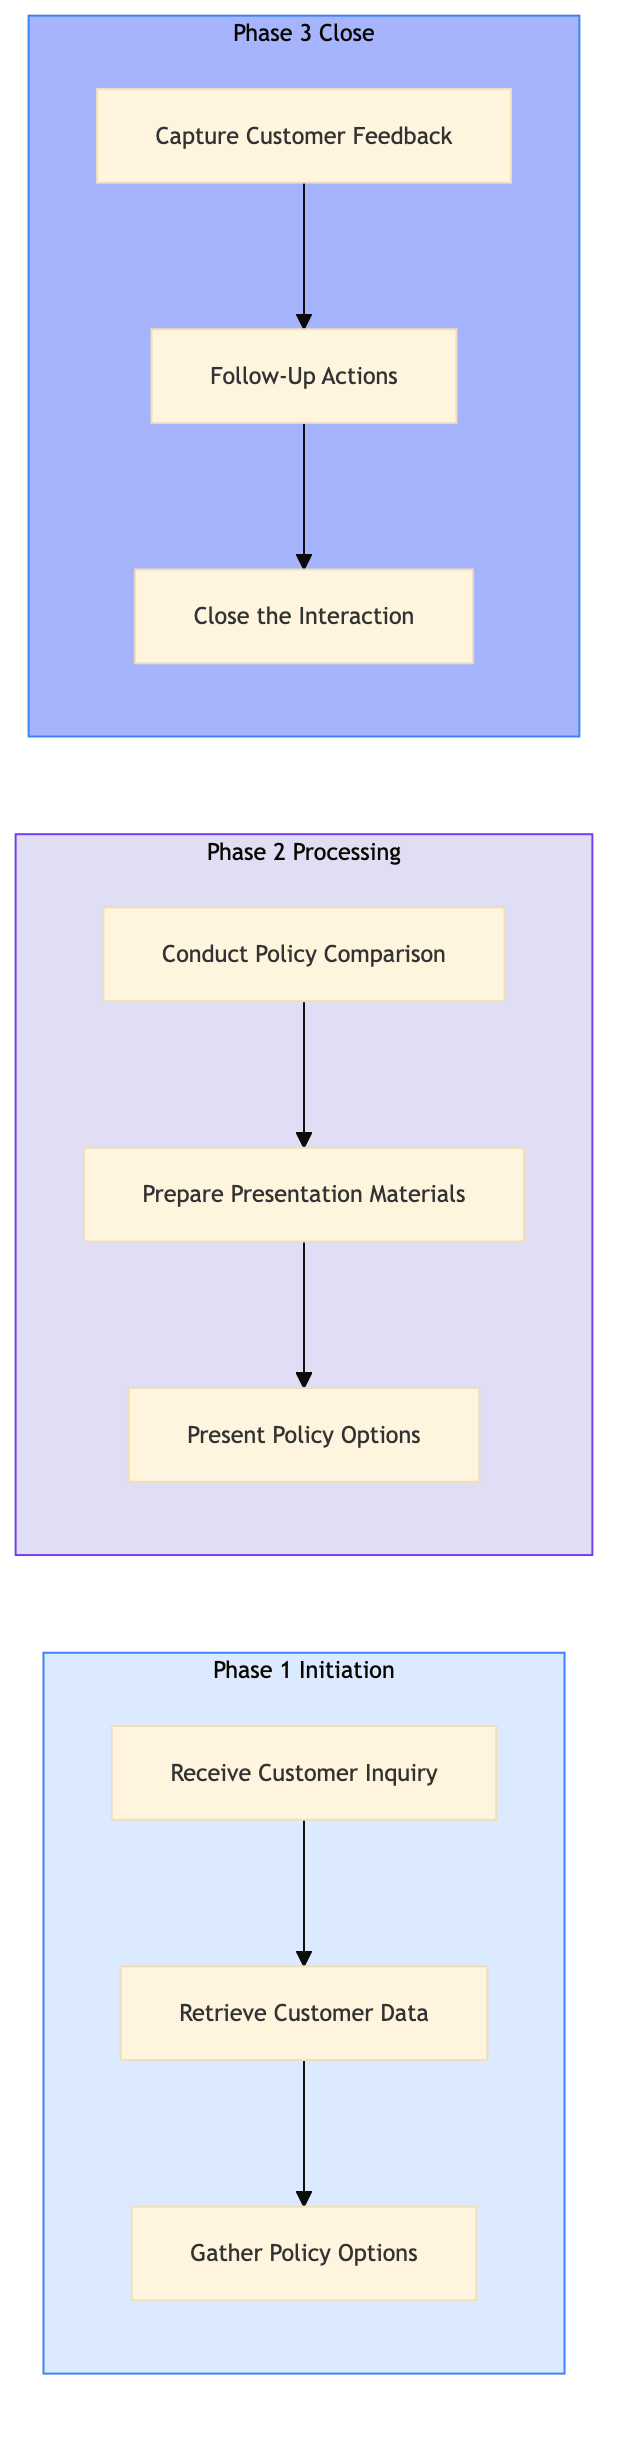
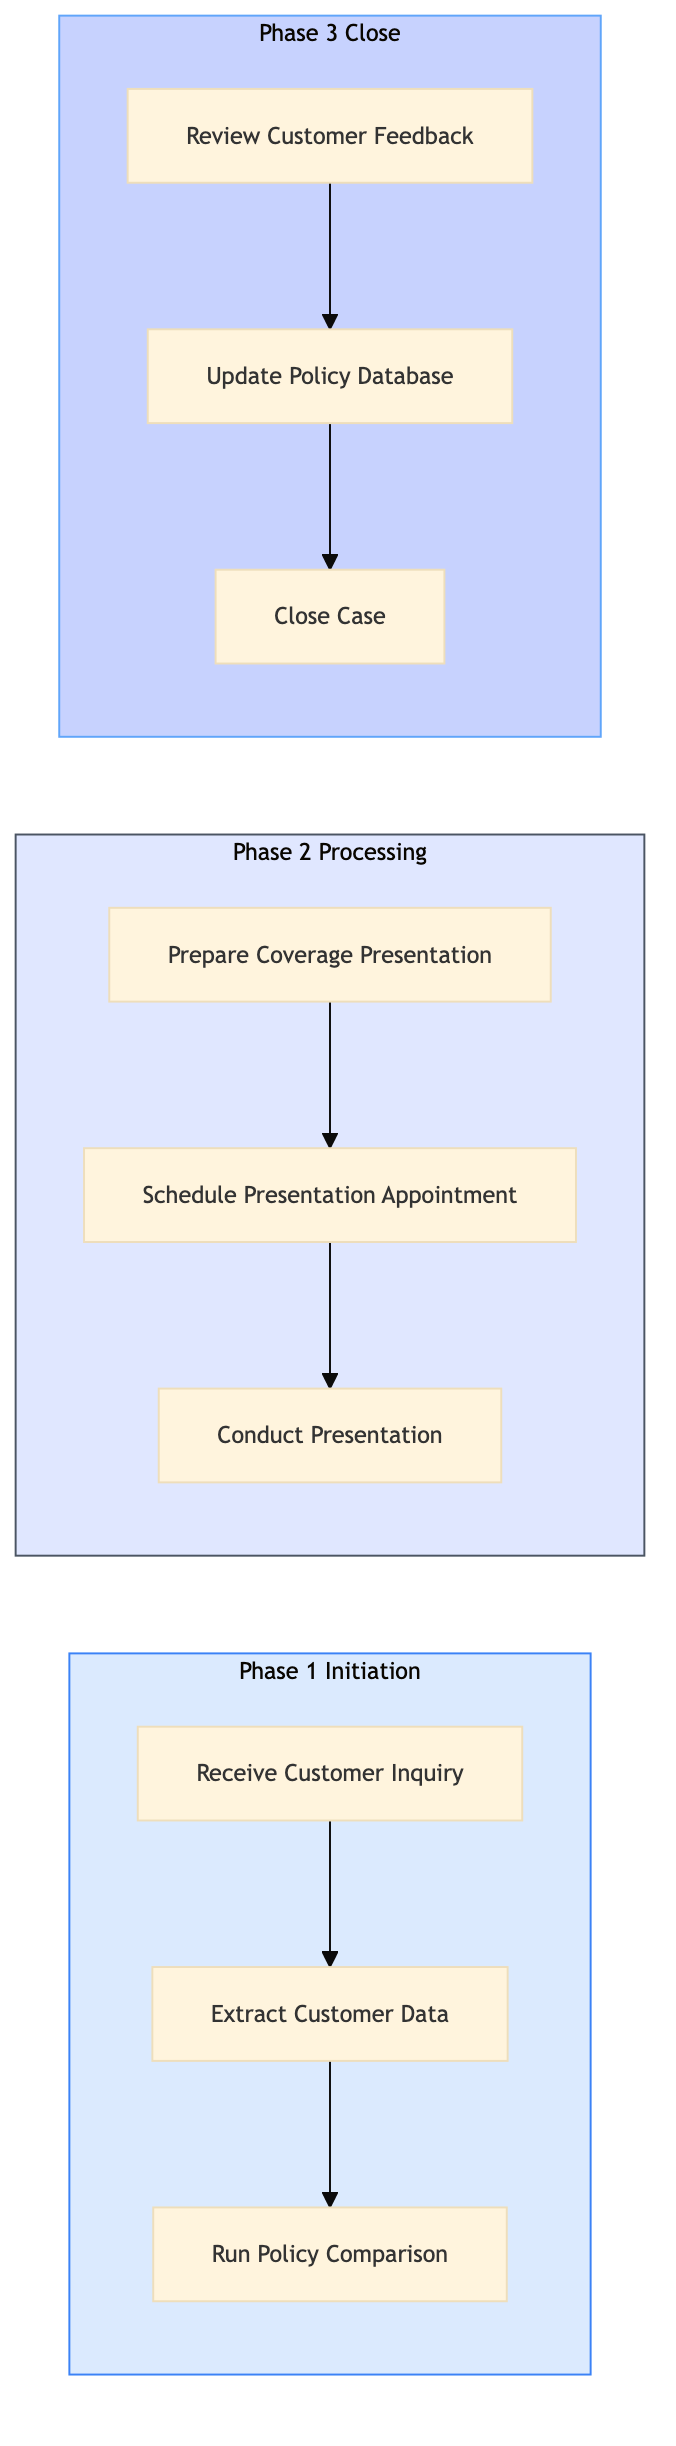
feat: add AAA-IN-QU-06 — Policy Comparison and Coverage Options Presentation

diff --git a/aaa-insurance/insurance-quoting/aaa-in-qu-06.html b/aaa-insurance/insurance-quoting/aaa-in-qu-06.html
@@ -23,40 +23,16 @@
     <div class="nav-l2-group">
       <a class="nav-l2-title" href="../../shared-membership/membership-enrolment/index.html">Membership Enrolment & Sales</a>
       <div class="nav-l3-list">
-        <a class="nav-l3" href="../../shared-membership/membership-enrolment/shared-mb-en-01.html">SHARED-MB-EN-01 &mdash; New Member Walk-In Enrolment (Branch)</a>
-        <a class="nav-l3" href="../../shared-membership/membership-enrolment/shared-mb-en-02.html">SHARED-MB-EN-02 &mdash; Online Membership Self-Enrolment (Web/Ap</a>
-        <a class="nav-l3" href="../../shared-membership/membership-enrolment/shared-mb-en-03.html">SHARED-MB-EN-03 &mdash; Phone Enrolment via Contact Centre</a>
-        <a class="nav-l3" href="../../shared-membership/membership-enrolment/shared-mb-en-04.html">SHARED-MB-EN-04 &mdash; Affiliate and Employer Group Enrolment</a>
-        <a class="nav-l3" href="../../shared-membership/membership-enrolment/shared-mb-en-05.html">SHARED-MB-EN-05 &mdash; Membership Tier Selection and Upsell</a>
-        <a class="nav-l3" href="../../shared-membership/membership-enrolment/shared-mb-en-06.html">SHARED-MB-EN-06 &mdash; Payment Processing and First-Year Billin</a>
-        <a class="nav-l3" href="../../shared-membership/membership-enrolment/shared-mb-en-07.html">SHARED-MB-EN-07 &mdash; Welcome Kit and Digital Card Issuance</a>
-        <a class="nav-l3" href="../../shared-membership/membership-enrolment/shared-mb-en-08.html">SHARED-MB-EN-08 &mdash; Duplicate Member Detection and Merge</a>
       </div>
     </div>
     <div class="nav-l2-group">
       <a class="nav-l2-title" href="../../shared-membership/membership-renewal/index.html">Membership Renewal & Retention</a>
       <div class="nav-l3-list">
-        <a class="nav-l3" href="../../shared-membership/membership-renewal/shared-mb-rn-01.html">SHARED-MB-RN-01 &mdash; Annual Renewal Notice Generation and Dis</a>
-        <a class="nav-l3" href="../../shared-membership/membership-renewal/shared-mb-rn-02.html">SHARED-MB-RN-02 &mdash; Auto-Renewal Processing (Credit Card on </a>
-        <a class="nav-l3" href="../../shared-membership/membership-renewal/shared-mb-rn-03.html">SHARED-MB-RN-03 &mdash; Lapsed Member Reinstatement Campaign</a>
-        <a class="nav-l3" href="../../shared-membership/membership-renewal/shared-mb-rn-04.html">SHARED-MB-RN-04 &mdash; Membership Upgrade and Tier Change Proce</a>
-        <a class="nav-l3" href="../../shared-membership/membership-renewal/shared-mb-rn-05.html">SHARED-MB-RN-05 &mdash; Associate and Household Member Add-On Pr</a>
-        <a class="nav-l3" href="../../shared-membership/membership-renewal/shared-mb-rn-06.html">SHARED-MB-RN-06 &mdash; Cancellation Request Handling and Save O</a>
-        <a class="nav-l3" href="../../shared-membership/membership-renewal/shared-mb-rn-07.html">SHARED-MB-RN-07 &mdash; Renewal Rate Review and Pricing Update</a>
-        <a class="nav-l3" href="../../shared-membership/membership-renewal/shared-mb-rn-08.html">SHARED-MB-RN-08 &mdash; Membership Winback Campaign (12-36 Month</a>
       </div>
     </div>
     <div class="nav-l2-group">
       <a class="nav-l2-title" href="../../shared-membership/member-services/index.html">Member Services & Benefits</a>
       <div class="nav-l3-list">
-        <a class="nav-l3" href="../../shared-membership/member-services/shared-mb-sv-01.html">SHARED-MB-SV-01 &mdash; Member Discount Partner Redemption</a>
-        <a class="nav-l3" href="../../shared-membership/member-services/shared-mb-sv-02.html">SHARED-MB-SV-02 &mdash; Passport Photo Service Delivery (Branch)</a>
-        <a class="nav-l3" href="../../shared-membership/member-services/shared-mb-sv-03.html">SHARED-MB-SV-03 &mdash; International Driving Permit (IDP) Proce</a>
-        <a class="nav-l3" href="../../shared-membership/member-services/shared-mb-sv-04.html">SHARED-MB-SV-04 &mdash; Notary and Document Authentication Servi</a>
-        <a class="nav-l3" href="../../shared-membership/member-services/shared-mb-sv-05.html">SHARED-MB-SV-05 &mdash; Member Portal Profile and Preferences Ma</a>
-        <a class="nav-l3" href="../../shared-membership/member-services/shared-mb-sv-06.html">SHARED-MB-SV-06 &mdash; Lost and Stolen Membership Card Replacem</a>
-        <a class="nav-l3" href="../../shared-membership/member-services/shared-mb-sv-07.html">SHARED-MB-SV-07 &mdash; Member Data Privacy Request (CCPA and PI</a>
-        <a class="nav-l3" href="../../shared-membership/member-services/shared-mb-sv-08.html">SHARED-MB-SV-08 &mdash; Member Satisfaction Survey and NPS Track</a>
       </div>
     </div>
   </div>
@@ -283,7 +259,7 @@
           <span class="pid-badge org-badge-aaa">AAA</span>
           AAA-IN-QU-06 &mdash; Policy Comparison and Coverage Options Presentation
         </h1>
-        <p>The process for comparing policies and presenting coverage options to customers in AAA Northeast.</p>
+        <p>This process involves comparing policies and presenting coverage options to customers using Guidewire Cloud, Salesforce, Sabre GDS, Verisk ISO rating, and other systems. It is initiated by a customer inquiry and aims to provide accurate policy quotes with detailed coverage explanations.</p>
       </div>
 
       <!-- BPMN Diagram -->
@@ -309,10 +285,10 @@
             <tr><th>L1 Domain</th><td>AAA Insurance</td></tr>
             <tr><th>L2 Process</th><td>Quoting & Underwriting</td></tr>
             <tr><th>L3 Name</th><td>Policy Comparison and Coverage Options Presentation</td></tr>
-            <tr><th>Trigger</th><td>Customer inquiry or request for a quote</td></tr>
-            <tr><th>Outcome</th><td>Successful presentation of policy comparison and coverage options, leading to customer satisfaction and potential policy sale.</td></tr>
-            <tr><th>Org Notes</th><td>AAA Northeast focuses on providing detailed policy comparisons using Guidewire Cloud, while CAA may use different systems and processes for this task.</td></tr>
-            <tr><th>Systems</th><td><span class="sys-tag salesforce">Salesforce</span> <span class="sys-tag guidewire">Guidewire PolicyCenter</span> <span class="sys-tag guidewire">Guidewire ClaimCenter</span> <span class="sys-tag sabre">Sabre GDS</span> <span class="sys-tag verisk">Verisk ISO rating</span></td></tr>
+            <tr><th>Trigger</th><td>Customer initiates a quote request through the AAA App or website</td></tr>
+            <tr><th>Outcome</th><td>Successful completion produces a detailed policy comparison report and presentation of coverage options to the customer via Salesforce Einstein AI, ensuring they understand their insurance needs.</td></tr>
+            <tr><th>Org Notes</th><td>AAA Northeast focuses on providing comprehensive policy comparisons using advanced analytics and cloud-based systems, differentiating it from CAA in its approach to leveraging technology for customer engagement.</td></tr>
+            <tr><th>Systems</th><td><span class="sys-tag guidewire">Guidewire Cloud</span> <span class="sys-tag salesforce">Salesforce</span> <span class="sys-tag sabre">Sabre GDS</span> <span class="sys-tag verisk">Verisk ISO rating</span> <span class="sys-tag grasshopper">Grasshopper Bank</span></td></tr>
           </table>
         </div>
       </div>
@@ -335,107 +311,107 @@
           <td class="step-num">1.1</td>
           <td>Receive Customer Inquiry</td>
           <td>Licensed Insurance Agent</td>
-          <td><span class="sys-tag salesforce">Salesforce</span></td>
+          <td><span class="sys-tag salesforce">AAA App, Salesforce</span></td>
           <td>Customer inquiry details</td>
           <td>Inquiry logged in Salesforce</td>
-          <td>Response time within 5 minutes</td>
-          <td>Delays in logging customer inquiries can lead to lost opportunities.</td>
+          <td>Response time to customer inquiry < 5 minutes</td>
+          <td>Handling large volumes of inquiries efficiently</td>
           <td>N</td>
           <td><span class="exception-y">Y</span></td>
         </tr>
         <tr>
           <td class="step-num">1.2</td>
-          <td>Retrieve Customer Data</td>
+          <td>Extract Customer Data</td>
           <td>Data Analyst</td>
-          <td><span class="sys-tag guidewire">Guidewire PolicyCenter</span></td>
-          <td>Customer ID from Salesforce</td>
-          <td>Customer profile and policy history</td>
-          <td>Data retrieval accuracy rate > 98%</td>
-          <td>Inaccurate data can lead to incorrect policy recommendations.</td>
+          <td><span class="sys-tag salesforce">Salesforce, Sabre GDS</span></td>
+          <td>Customer profile from Salesforce</td>
+          <td>Enhanced customer data with travel history</td>
+          <td>Data extraction accuracy > 95%</td>
+          <td>Maintaining accurate and up-to-date customer data</td>
           <td>N</td>
           <td><span class="exception-y">Y</span></td>
         </tr>
         <tr>
           <td class="step-num">1.3</td>
-          <td>Gather Policy Options</td>
-          <td>Underwriter</td>
-          <td><span class="sys-tag guidewire">Guidewire PolicyCenter</span></td>
-          <td>Customer profile and policy history</td>
-          <td>List of policy options</td>
-          <td>Number of relevant policy options presented > 3</td>
-          <td>Insufficient policy options can lead to customer dissatisfaction.</td>
+          <td>Run Policy Comparison</td>
+          <td>Policy Analyst</td>
+          <td><span class="sys-tag guidewire">Guidewire Cloud, Verisk ISO rating</span></td>
+          <td>Enhanced customer data</td>
+          <td>Policy comparison report</td>
+          <td>Comparison accuracy > 90%</td>
+          <td>Ensuring comprehensive coverage analysis</td>
           <td>N</td>
           <td><span class="exception-y">Y</span></td>
         </tr>
         <tr>
           <td class="step-num">2.1</td>
-          <td>Conduct Policy Comparison</td>
+          <td>Prepare Coverage Presentation</td>
           <td>Licensed Insurance Agent</td>
-          <td><span class="sys-tag guidewire">Guidewire PolicyCenter</span></td>
-          <td>List of policy options</td>
+          <td><span class="sys-tag guidewire">Salesforce Einstein AI, Guidewire Cloud</span></td>
           <td>Policy comparison report</td>
-          <td>Comparison accuracy rate > 95%</td>
-          <td>Errors in policy comparisons can lead to incorrect recommendations.</td>
+          <td>Coverage presentation document</td>
+          <td>Presentation quality score > 85%</td>
+          <td>Tailoring presentations to individual customer needs</td>
           <td>N</td>
           <td><span class="exception-y">Y</span></td>
         </tr>
         <tr>
           <td class="step-num">2.2</td>
-          <td>Prepare Presentation Materials</td>
-          <td>Licensed Insurance Agent</td>
-          <td><span class="sys-tag salesforce">Salesforce (Einstein AI)</span></td>
-          <td>Policy comparison report</td>
-          <td>Presentation slides and customer script</td>
-          <td>Presentation preparation time < 15 minutes</td>
-          <td>Long preparation times can lead to customer frustration.</td>
+          <td>Schedule Presentation Appointment</td>
+          <td>Customer Service Representative</td>
+          <td><span class="sys-tag salesforce">Salesforce, Grasshopper Bank</span></td>
+          <td>Coverage presentation document</td>
+          <td>Appointment confirmation</td>
+          <td>Appointment scheduling rate > 90%</td>
+          <td>Managing customer availability and preferences</td>
           <td>N</td>
           <td><span class="exception-y">Y</span></td>
         </tr>
         <tr>
           <td class="step-num">2.3</td>
-          <td>Present Policy Options</td>
+          <td>Conduct Presentation</td>
           <td>Licensed Insurance Agent</td>
-          <td><span class="sys-tag salesforce">Salesforce (Einstein AI)</span></td>
-          <td>Presentation slides and customer script</td>
-          <td>Customer feedback on policy options</td>
-          <td>Customer satisfaction rate > 80%</td>
-          <td>Low customer satisfaction can lead to lost sales.</td>
-          <td><span class="decision-y">Y</span></td>
+          <td><span class="sys-tag salesforce">Salesforce Einstein AI, AAA App</span></td>
+          <td>Coverage presentation document</td>
+          <td>Customer feedback form</td>
+          <td>Customer satisfaction score > 80%</td>
+          <td>Handling customer objections and clarifying doubts</td>
+          <td>N</td>
           <td><span class="exception-y">Y</span></td>
         </tr>
         <tr>
           <td class="step-num">3.1</td>
-          <td>Capture Customer Feedback</td>
-          <td>Licensed Insurance Agent</td>
-          <td><span class="sys-tag salesforce">Salesforce</span></td>
-          <td>Customer feedback on policy options</td>
-          <td>Feedback logged in Salesforce</td>
-          <td>Feedback capture rate > 90%</td>
-          <td>Lost customer feedback can lead to missed opportunities.</td>
+          <td>Review Customer Feedback</td>
+          <td>Policy Analyst</td>
+          <td><span class="sys-tag guidewire">Salesforce, Guidewire Cloud</span></td>
+          <td>Customer feedback form</td>
+          <td>Feedback analysis report</td>
+          <td>Feedback review accuracy > 95%</td>
+          <td>Analyzing and addressing customer concerns</td>
           <td>N</td>
           <td><span class="exception-y">Y</span></td>
         </tr>
         <tr>
           <td class="step-num">3.2</td>
-          <td>Follow-Up Actions</td>
-          <td>Licensed Insurance Agent</td>
-          <td><span class="sys-tag guidewire">Guidewire PolicyCenter, Salesforce</span></td>
-          <td>Feedback logged in Salesforce</td>
-          <td>Action plan for follow-up</td>
-          <td>Follow-up actions completed within 24 hours</td>
-          <td>Delayed follow-ups can lead to customer dissatisfaction.</td>
+          <td>Update Policy Database</td>
+          <td>Data Analyst</td>
+          <td><span class="sys-tag guidewire">Guidewire Cloud, Salesforce</span></td>
+          <td>Feedback analysis report</td>
+          <td>Updated policy database</td>
+          <td>Database update accuracy > 90%</td>
+          <td>Maintaining an accurate and up-to-date policy database</td>
           <td>N</td>
           <td><span class="exception-y">Y</span></td>
         </tr>
         <tr>
           <td class="step-num">3.3</td>
-          <td>Close the Interaction</td>
-          <td>Licensed Insurance Agent</td>
-          <td><span class="sys-tag salesforce">Salesforce</span></td>
-          <td>Action plan for follow-up</td>
-          <td>Interaction closed in Salesforce</td>
-          <td>Interaction closure rate > 95%</td>
-          <td>Open interactions can lead to customer confusion.</td>
+          <td>Close Case</td>
+          <td>Customer Service Representative</td>
+          <td><span class="sys-tag salesforce">Salesforce, AAA App</span></td>
+          <td>Updated policy database</td>
+          <td>Case closure confirmation</td>
+          <td>Case closure rate > 95%</td>
+          <td>Efficiently closing cases and ensuring customer satisfaction</td>
           <td>N</td>
           <td><span class="exception-y">Y</span></td>
         </tr>
@@ -450,9 +426,9 @@
         <div class="card-header">&#x1F4CA; KPIs &amp; Risk Register</div>
         <div class="card-body">
           <p class="mb-8"><strong>KPIs</strong></p>
-          <div class="kpi-list mb-8"><span class="kpi-pill">Response time within 5 minutes</span> <span class="kpi-pill">Data retrieval accuracy rate > 98%</span> <span class="kpi-pill">Number of relevant policy options presented > 3</span> <span class="kpi-pill">Comparison accuracy rate > 95%</span> <span class="kpi-pill">Presentation preparation time < 15 minutes</span> <span class="kpi-pill">Customer satisfaction rate > 80%</span> <span class="kpi-pill">Feedback capture rate > 90%</span> <span class="kpi-pill">Follow-up actions completed within 24 hours</span> <span class="kpi-pill">Interaction closure rate > 95%</span></div>
+          <div class="kpi-list mb-8"><span class="kpi-pill">Response time to customer inquiry < 5 minutes</span> <span class="kpi-pill">Data extraction accuracy > 95%</span> <span class="kpi-pill">Comparison accuracy > 90%</span> <span class="kpi-pill">Presentation quality score > 85%</span> <span class="kpi-pill">Appointment scheduling rate > 90%</span> <span class="kpi-pill">Customer satisfaction score > 80%</span> <span class="kpi-pill">Feedback review accuracy > 95%</span> <span class="kpi-pill">Database update accuracy > 90%</span> <span class="kpi-pill">Case closure rate > 95%</span></div>
           <p class="mb-8" style="margin-top:16px"><strong>Key Risks</strong></p>
-          <div class="kpi-list"><span class="risk-pill">Delays in logging customer inquiries can lead to lost opportunities.</span> <span class="risk-pill">Inaccurate data can lead to incorrect policy recommendations.</span> <span class="risk-pill">Insufficient policy options can lead to customer dissatisfaction.</span> <span class="risk-pill">Errors in policy comparisons can lead to incorrect recommendations.</span> <span class="risk-pill">Long preparation times can lead to customer frustration.</span> <span class="risk-pill">Low customer satisfaction can lead to lost sales.</span> <span class="risk-pill">Lost customer feedback can lead to missed opportunities.</span> <span class="risk-pill">Delayed follow-ups can lead to customer dissatisfaction.</span> <span class="risk-pill">Open interactions can lead to customer confusion.</span></div>
+          <div class="kpi-list"><span class="risk-pill">Inaccurate data extraction leading to incorrect policy comparisons</span> <span class="risk-pill">Difficulty in tailoring presentations to individual customer needs</span> <span class="risk-pill">Handling large volumes of inquiries efficiently</span> <span class="risk-pill">Maintaining an accurate and up-to-date policy database</span> <span class="risk-pill">Efficiently closing cases and ensuring customer satisfaction</span></div>
         </div>
       </div>
 

diff --git a/aaa-insurance/insurance-quoting/index.html b/aaa-insurance/insurance-quoting/index.html
@@ -45,6 +45,7 @@
         <a class="nav-l3" href="../../aaa-insurance/insurance-quoting/aaa-in-qu-02.html">AAA-IN-QU-02 &mdash; Driver and Vehicle Information Capture</a>
         <a class="nav-l3" href="../../aaa-insurance/insurance-quoting/aaa-in-qu-03.html">AAA-IN-QU-03 &mdash; MVR Pull and Scoring</a>
         <a class="nav-l3" href="../../aaa-insurance/insurance-quoting/aaa-in-qu-04.html">AAA-IN-QU-04 &mdash; Credit Score Pull and Rating Tier Assign</a>
+        <a class="nav-l3" href="../../aaa-insurance/insurance-quoting/aaa-in-qu-05.html">AAA-IN-QU-05 &mdash; ISO Rating Engine Calculation</a>
       </div>
     </div>
     <div class="nav-l2-group">
@@ -251,7 +252,7 @@
           <a href="../index.html">AAA Insurance</a>
         </div>
         <h1>🛡 Quoting & Underwriting</h1>
-        <p>4 of 10 processes complete</p>
+        <p>5 of 10 processes complete</p>
       </div>
       <div class="card">
         <div class="card-header">Process List</div>
@@ -262,7 +263,7 @@
 <tr><td><a href="aaa-in-qu-02.html">AAA-IN-QU-02</a></td><td>Driver and Vehicle Information Capture</td><td><span style="color:#16a34a;font-weight:700">&#x2705; Complete</span></td></tr>
 <tr><td><a href="aaa-in-qu-03.html">AAA-IN-QU-03</a></td><td>MVR Pull and Scoring</td><td><span style="color:#16a34a;font-weight:700">&#x2705; Complete</span></td></tr>
 <tr><td><a href="aaa-in-qu-04.html">AAA-IN-QU-04</a></td><td>Credit Score Pull and Rating Tier Assignment</td><td><span style="color:#16a34a;font-weight:700">&#x2705; Complete</span></td></tr>
-<tr><td>AAA-IN-QU-05</td><td>ISO Rating Engine Calculation</td><td><span style="color:#94a3b8">&#x23F3; Queued</span></td></tr>
+<tr><td><a href="aaa-in-qu-05.html">AAA-IN-QU-05</a></td><td>ISO Rating Engine Calculation</td><td><span style="color:#16a34a;font-weight:700">&#x2705; Complete</span></td></tr>
 <tr><td>AAA-IN-QU-06</td><td>Policy Comparison and Coverage Options Presentation</td><td><span style="color:#94a3b8">&#x23F3; Queued</span></td></tr>
 <tr><td>AAA-IN-QU-07</td><td>Underwriting Rule Application and Referral Decision</td><td><span style="color:#94a3b8">&#x23F3; Queued</span></td></tr>
 <tr><td>AAA-IN-QU-08</td><td>Quote Bind Conversion and Application Submission</td><td><span style="color:#94a3b8">&#x23F3; Queued</span></td></tr>

diff --git a/index.html b/index.html
@@ -45,6 +45,7 @@
         <a class="nav-l3" href="aaa-insurance/insurance-quoting/aaa-in-qu-02.html">AAA-IN-QU-02 &mdash; Driver and Vehicle Information Capture</a>
         <a class="nav-l3" href="aaa-insurance/insurance-quoting/aaa-in-qu-03.html">AAA-IN-QU-03 &mdash; MVR Pull and Scoring</a>
         <a class="nav-l3" href="aaa-insurance/insurance-quoting/aaa-in-qu-04.html">AAA-IN-QU-04 &mdash; Credit Score Pull and Rating Tier Assign</a>
+        <a class="nav-l3" href="aaa-insurance/insurance-quoting/aaa-in-qu-05.html">AAA-IN-QU-05 &mdash; ISO Rating Engine Calculation</a>
       </div>
     </div>
     <div class="nav-l2-group">
@@ -251,9 +252,9 @@
       </div>
 
       <div class="stats-bar">
-        <div class="stat-card"><div class="stat-num">4</div><div class="stat-label">Processes Complete</div></div>
+        <div class="stat-card"><div class="stat-num">5</div><div class="stat-label">Processes Complete</div></div>
         <div class="stat-card"><div class="stat-num">268</div><div class="stat-label">Total Processes</div></div>
-        <div class="stat-card"><div class="stat-num">4</div><div class="stat-label">AAA Complete</div></div>
+        <div class="stat-card"><div class="stat-num">5</div><div class="stat-label">AAA Complete</div></div>
         <div class="stat-card"><div class="stat-num caa-red">0</div><div class="stat-label">CAA Complete</div></div>
         <div class="stat-card"><div class="stat-num">0</div><div class="stat-label">Shared Complete</div></div>
       </div>
@@ -273,7 +274,7 @@
         <span class="nav-org-dot aaa" style="display:inline-block;margin-right:4px"></span>
         AAA
       </p>
-      <p class="card-count">4 / 34 processes complete</p>
+      <p class="card-count">5 / 34 processes complete</p>
     </div>
     <div class="domain-card org-caa">
       <h3><a href="caa-insurance/index.html">🍁 CAA Insurance (Ontario)</a></h3>

diff --git a/aaa-insurance/index.html b/aaa-insurance/index.html
@@ -45,6 +45,7 @@
         <a class="nav-l3" href="../aaa-insurance/insurance-quoting/aaa-in-qu-02.html">AAA-IN-QU-02 &mdash; Driver and Vehicle Information Capture</a>
         <a class="nav-l3" href="../aaa-insurance/insurance-quoting/aaa-in-qu-03.html">AAA-IN-QU-03 &mdash; MVR Pull and Scoring</a>
         <a class="nav-l3" href="../aaa-insurance/insurance-quoting/aaa-in-qu-04.html">AAA-IN-QU-04 &mdash; Credit Score Pull and Rating Tier Assign</a>
+        <a class="nav-l3" href="../aaa-insurance/insurance-quoting/aaa-in-qu-05.html">AAA-IN-QU-05 &mdash; ISO Rating Engine Calculation</a>
       </div>
     </div>
     <div class="nav-l2-group">
@@ -248,11 +249,11 @@
       <div class="page-header">
         <div class="breadcrumb"><a href="../index.html">Home</a></div>
         <h1>🛡 AAA Insurance</h1>
-        <p>4 of 34 processes complete across 4 process groups</p>
+        <p>5 of 34 processes complete across 4 process groups</p>
       </div>
       <div class="domain-grid">    <div class="domain-card org-aaa">
       <h3><a href="insurance-quoting/index.html">Quoting & Underwriting</a></h3>
-      <p class="card-meta">4/10 processes complete</p>
+      <p class="card-meta">5/10 processes complete</p>
     </div>
     <div class="domain-card org-aaa">
       <h3><a href="policy-administration/index.html">Policy Administration</a></h3>
